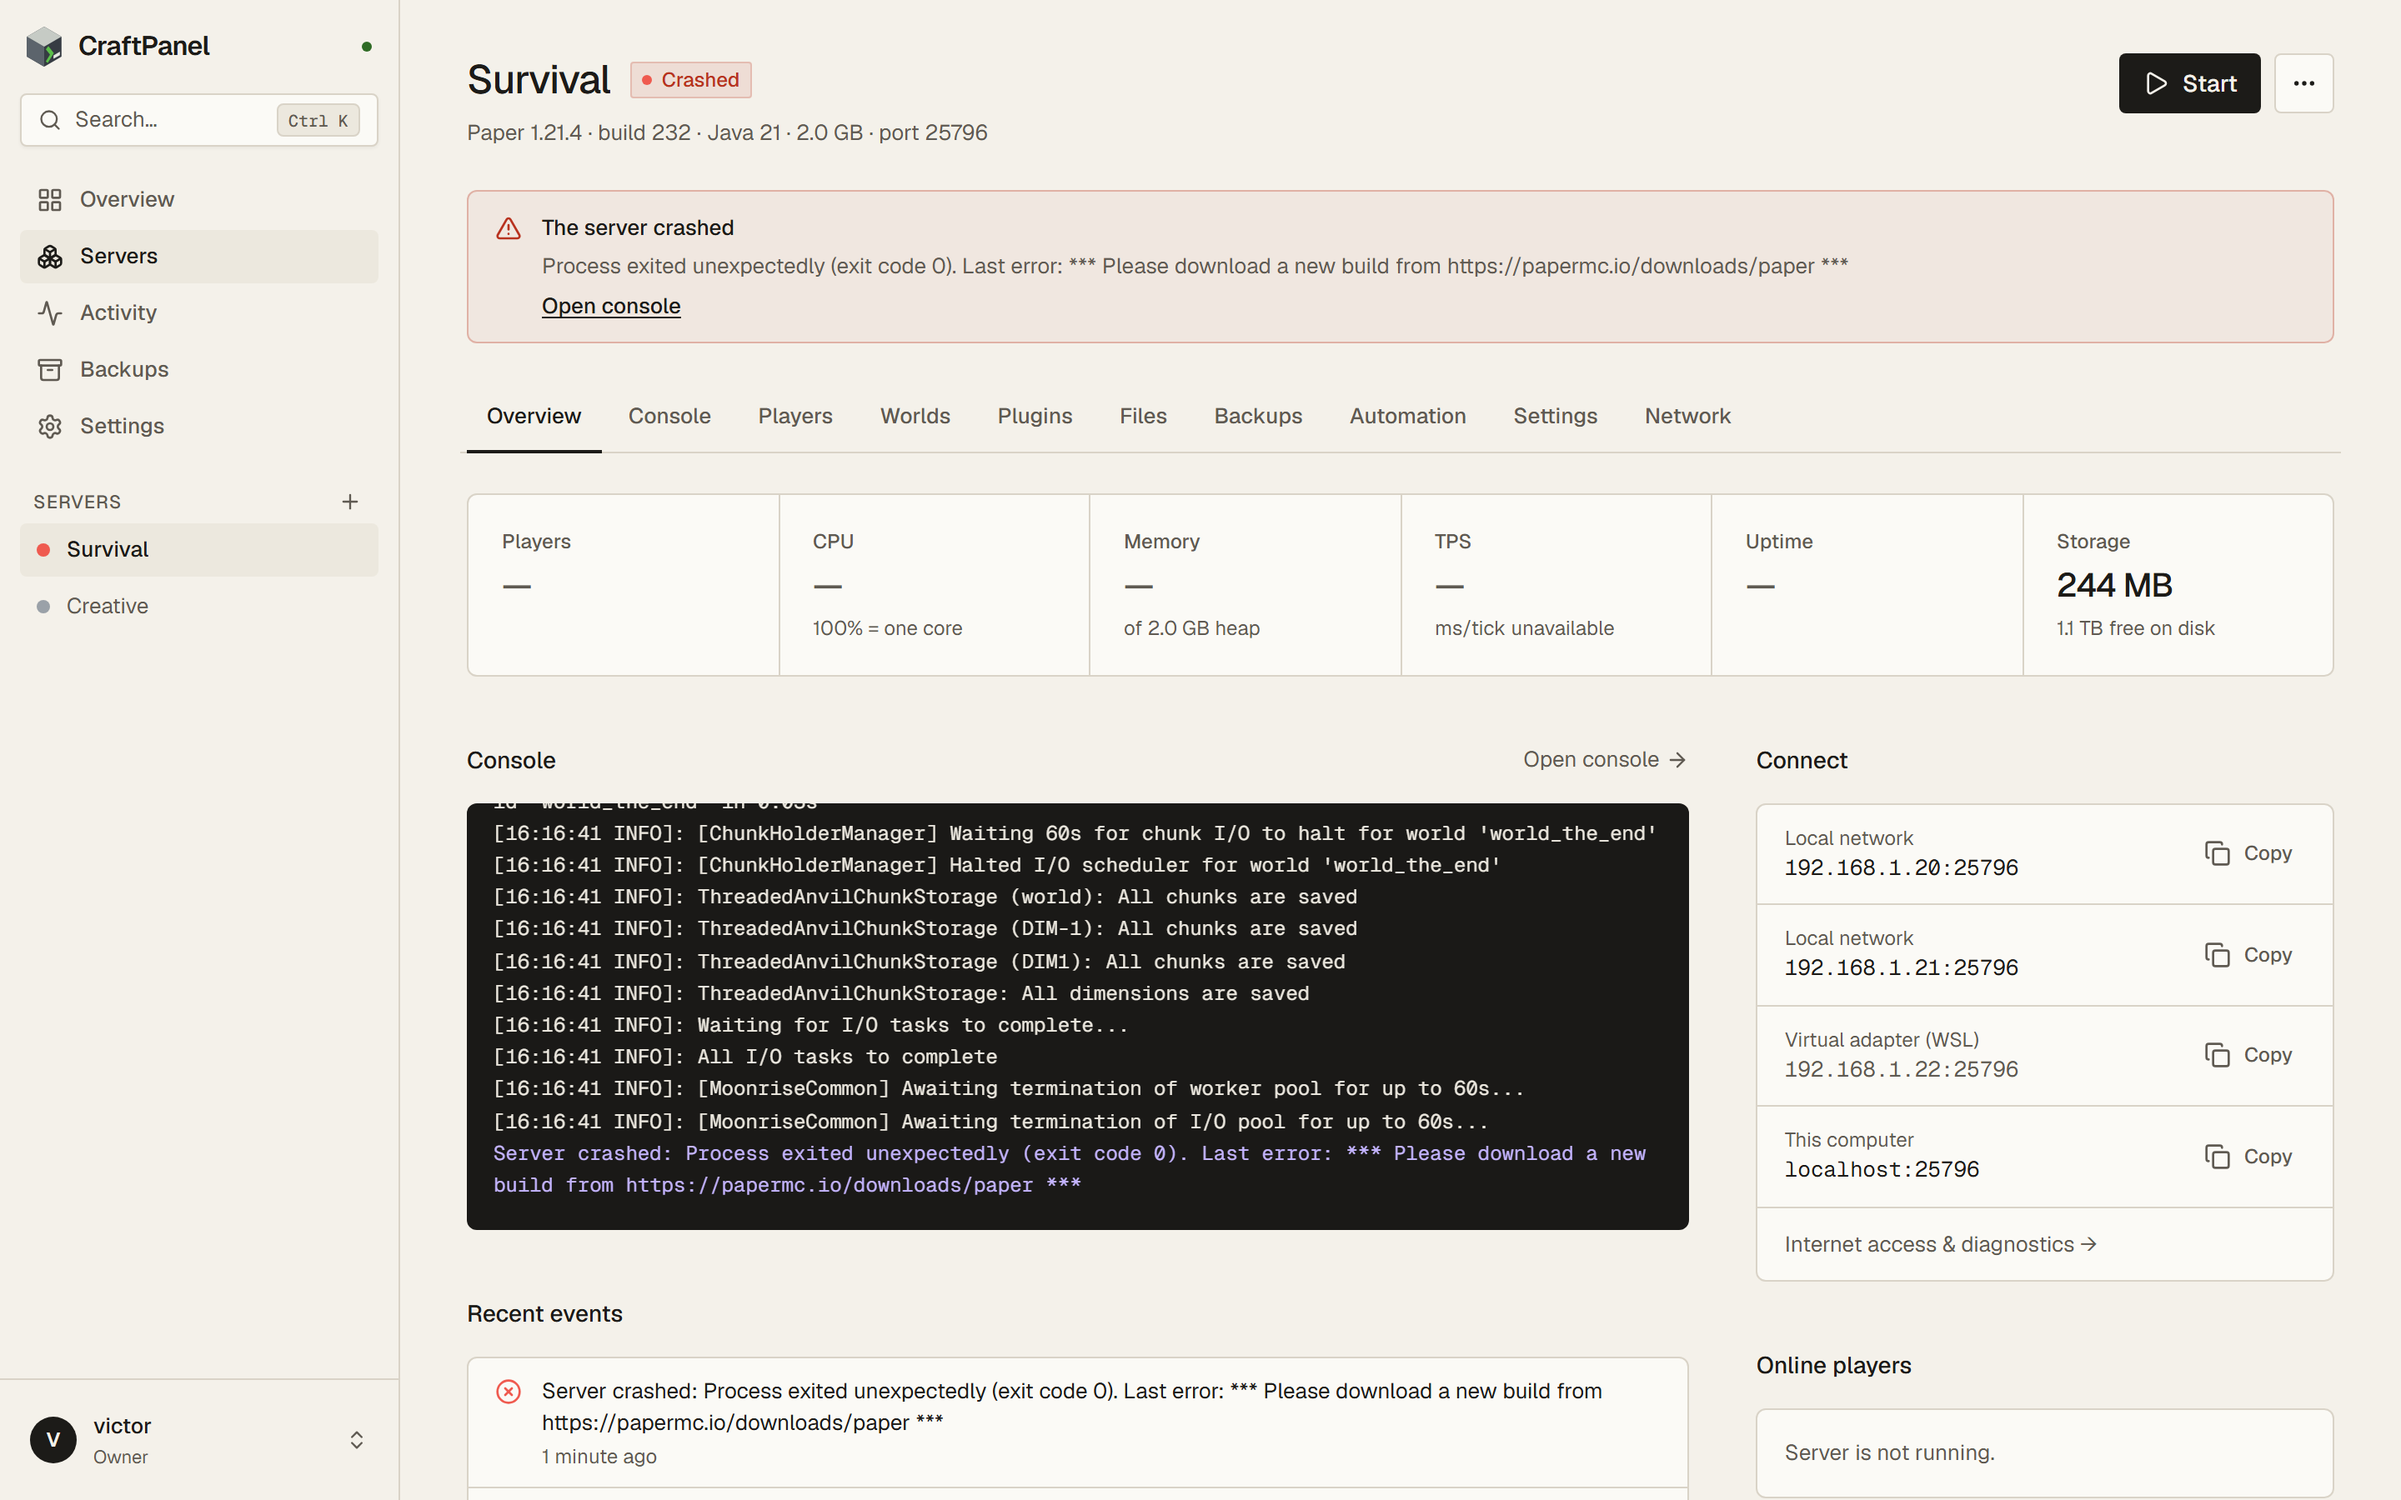
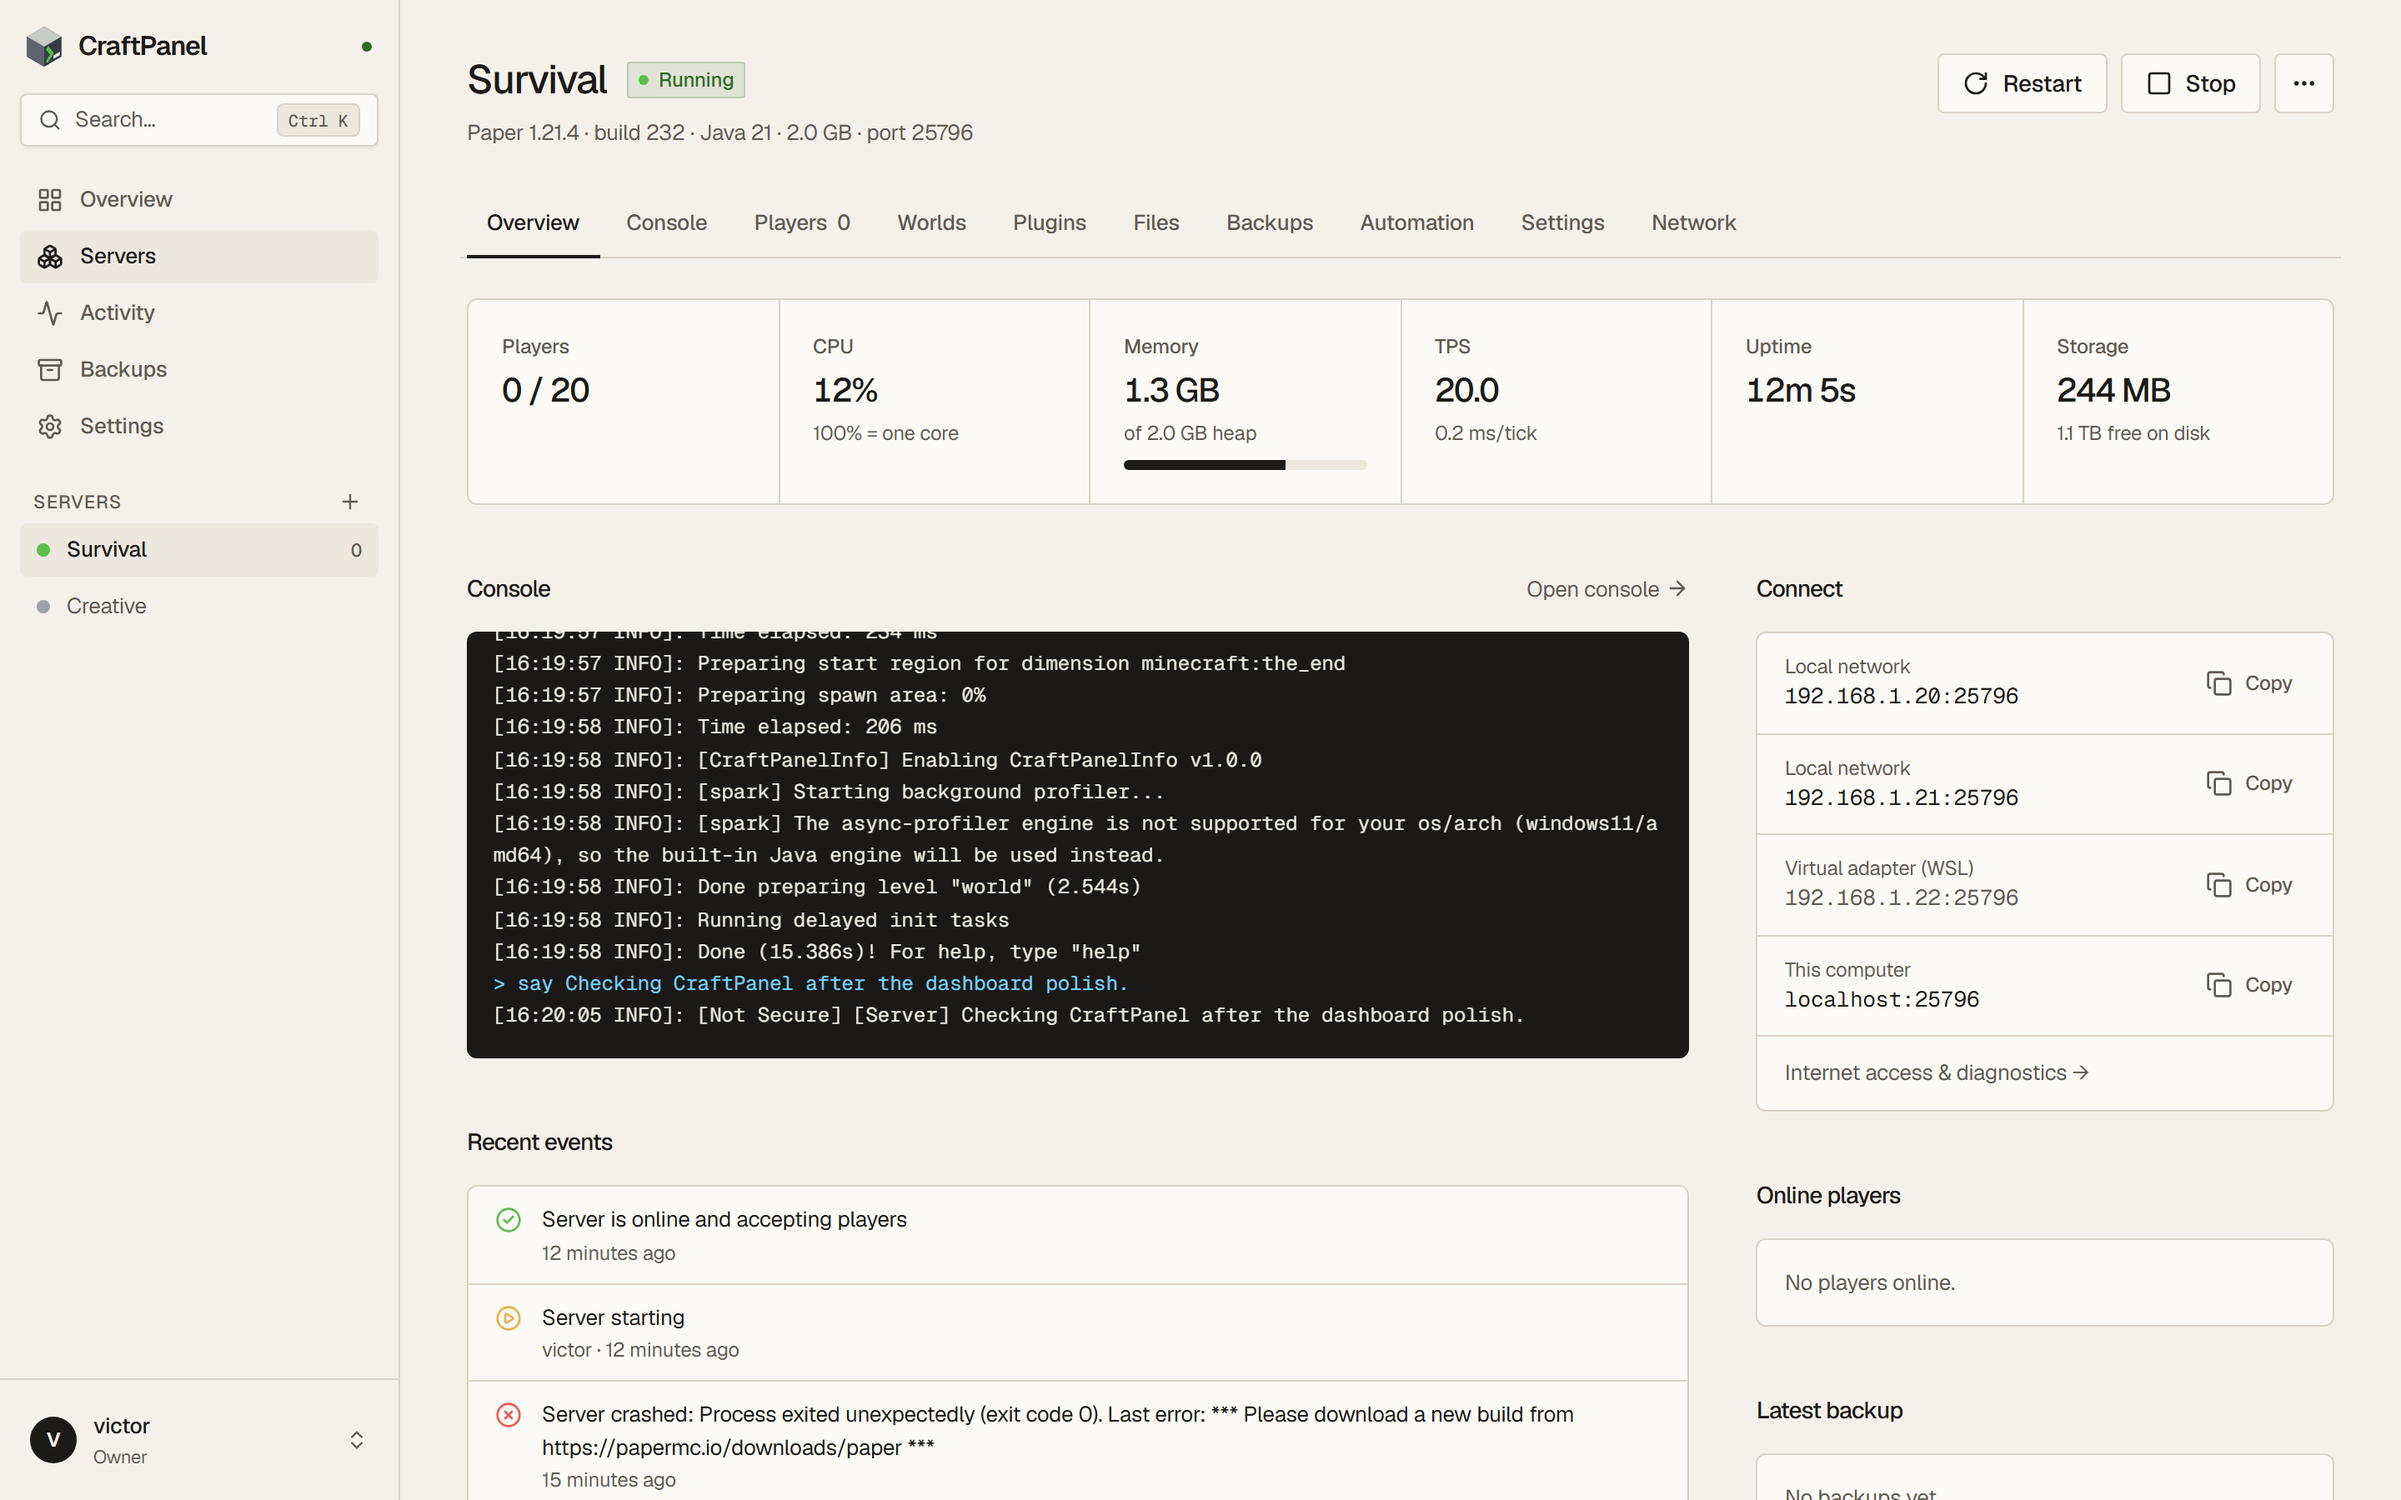
Refresh compact overview references and typography guidance
Document shared tracking values, bounded activity panels and live-event verification. Recapture dashboard screenshots from the updated production build in both themes.

diff --git a/docs/STATUS.md b/docs/STATUS.md
@@ -7,6 +7,7 @@ Shared tokens and Geist for the dashboard, website and docs, plus the new mark f
 - ✅ Dashboard checked in Chromium on a throwaway instance with a running Paper server (servers, overview, console, plugins, new-server; dark and light), website and docs checked in both themes and at 390 px: no console errors, no horizontal overflow, all landing interactions pass. Text colour pairs meet WCAG AA by calculation (table in the design docs). Fonts are served from the official `geist` package; no third-party font requests.
 - ✅ Polish: landing layout checked at 1440, 1024, 768 and 390 px in both themes (commands, caption clearance, single-row preview tabs, equal-height software cards, complete feature grid). Connected feature displays and the runtime restart illustration use original code-drawn SVG hardware/worlds. Dashboard verified against the throwaway Paper instance in both themes, including 390 px: LAN before labelled VPN/virtual adapters, distinct activity icons/colours, English dates in a German-locale browser and 16 px console padding. Website product screenshots refreshed from that build.
 - 🧪 Workspace typecheck, production dashboard/API build and 21-page site build pass; 279 tests pass with four platform-specific skips, including new adapter, UI-locale and event-presentation regressions. Adapter labels use known names; renamed or unrecognised adapters can remain generic.
+- ✅ Tighter Sans tracking and bounded recent-event feeds checked in both themes at 1440, 1024, 768 and 390 px. Desktop event panels finish level with the neighbouring column; mobile panels cap at 320 px. Newest events are first, keyboard scrolling works, and Mono output keeps its normal spacing. A real backup event on the throwaway Paper instance refreshed the overview immediately over WebSocket, before the polling interval.
 
 ## Independent Minecraft runtime (2026-11-09)
 

diff --git a/docs/design/README.md b/docs/design/README.md
@@ -30,6 +30,8 @@ Fonts are self-hosted from the `geist` npm package (Vercel, SIL Open Font Licens
 
 Keep weights low: nothing above 600. Large Geist at 700+ with tight tracking looks blunt; precision comes from size and spacing, not weight. Serif ships a single weight and `font-synthesis-weight: none` is set globally, so give it `font-normal` instead of inheriting a bold one. The wordmark is Geist Sans 600 next to the mark (the brand package's Archivo wordmark is not used).
 
+Sans tracking is slightly negative: `--cp-tracking-body` −0.01 em for normal UI/body text, `--cp-tracking-heading` −0.035 em for headings. Mono commands and console output retain normal tracking for legibility.
+
 ## Colour
 
 Warm greys ("deepslate" dark, "sandstone" light) carry the UI. Three colour roles, never mixed:
@@ -68,6 +70,7 @@ Buttons: brand button 7.6 (light, white text) / 7.3 (dark, dark text). Any new p
 - Activity icons follow event kind: running = Signal, starting = Amber, stopped = Ash, crashed = Ember. Updates and installs are neutral. Failures retain warning/error emphasis.
 - Connection addresses list physical LAN first, then VPN and virtual adapters with product labels. Classification uses known adapter names; renamed or unrecognised adapters can remain generic. A private IP range alone does not identify VirtualBox or Tailscale. The access policy still uses IP/CIDR rules independently of these display labels.
 - Console output has 16 px inner spacing, including above the first line; live-connection and severity colours use shared status tokens.
+- Compact activity feeds stay within the neighbouring content column on desktop, with an internal keyboard-accessible scroll region. On mobile they cap at 320 px. Events arrive newest first and server events refresh the overview immediately; the full activity page remains paginated.
 
 ## The mark
 

diff --git a/CHANGELOG.md b/CHANGELOG.md
@@ -10,11 +10,13 @@ All notable changes to CraftPanel. Versions follow [semantic versioning](https:/
 - New logo: an isometric block with a console prompt, in the dashboard, favicon and website. The dashboard uses Geist (Sans and Mono, Serif for release notes) at lighter weights and shares its design tokens with the website: warmer greys, Signal green for brand and running, Amber/Ember/Ash for other states, neutral focus and active controls, and smaller corners.
 - Landing page polish: connected bento displays with one outer frame and shared dividers, solid rules, active-only offset shadows, single-line scrollable install commands and preview tabs, consistent software cards, a plugin search preview and a complete six-item feature list.
 - More detailed original isometric hardware and block-world artwork, plus an interactive illustration of the Minecraft runtime staying online during a dashboard restart.
+- Slightly tighter Sans letter spacing across the dashboard, website and docs; commands and console output retain their normal Mono spacing.
 
 ### Fixed
 - Dashboard dates and relative times use the English UI locale instead of mixing in the browser's language.
 - Connection addresses list real LAN adapters first and label known VPN, WSL, Hyper-V, Docker and VirtualBox adapters separately.
 - Activity events have icons and status colours by event kind; updates and installs stay neutral. Console output has more space above the first line and uses shared status colours.
+- Compact recent-event lists scroll within the neighbouring column's height on desktop and cap at 320 px on mobile. The latest events remain first, with immediate overview refreshes when server events arrive.
 
 ## 1.0.0 – 2026-11-09
 
